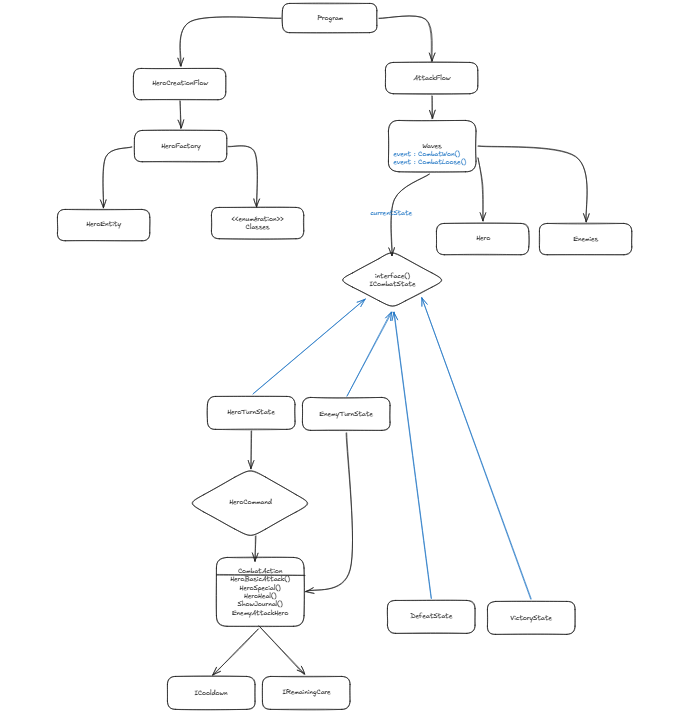
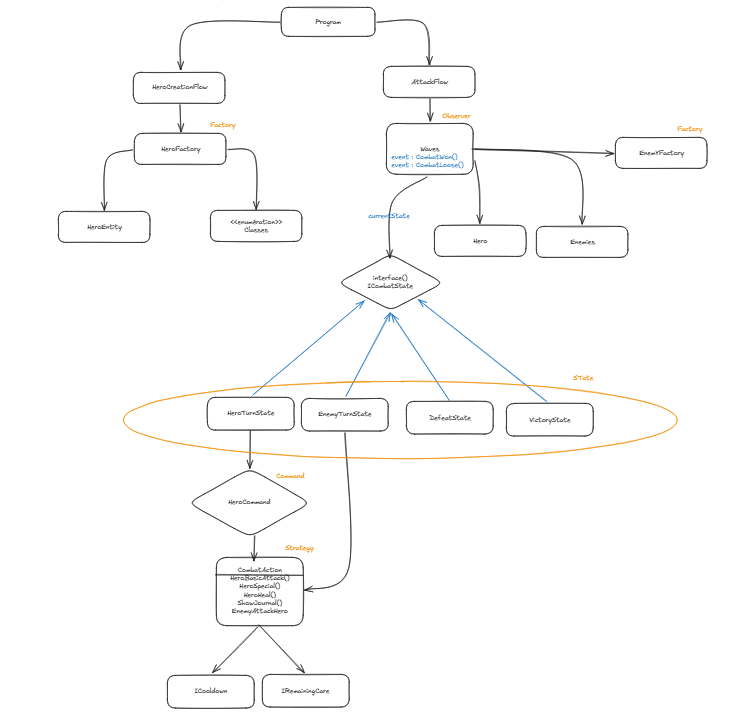
feat: update assembly information and remove obsolete class diagram

diff --git a/CombatTourParTour/obj/Debug/net10.0/CombatTourParTour.AssemblyInfo.cs b/CombatTourParTour/obj/Debug/net10.0/CombatTourParTour.AssemblyInfo.cs
@@ -13,7 +13,7 @@ using System.Reflection;
 [assembly: System.Reflection.AssemblyCompanyAttribute("CombatTourParTour")]
 [assembly: System.Reflection.AssemblyConfigurationAttribute("Debug")]
 [assembly: System.Reflection.AssemblyFileVersionAttribute("1.0.0.0")]
-[assembly: System.Reflection.AssemblyInformationalVersionAttribute("1.0.0+71251ddf126876d7cba5a6cbb7095cd966ae6b58")]
+[assembly: System.Reflection.AssemblyInformationalVersionAttribute("1.0.0+752429a9e1dc1763ea0ba711b520fa0f754d7ebe")]
 [assembly: System.Reflection.AssemblyProductAttribute("CombatTourParTour")]
 [assembly: System.Reflection.AssemblyTitleAttribute("CombatTourParTour")]
 [assembly: System.Reflection.AssemblyVersionAttribute("1.0.0.0")]